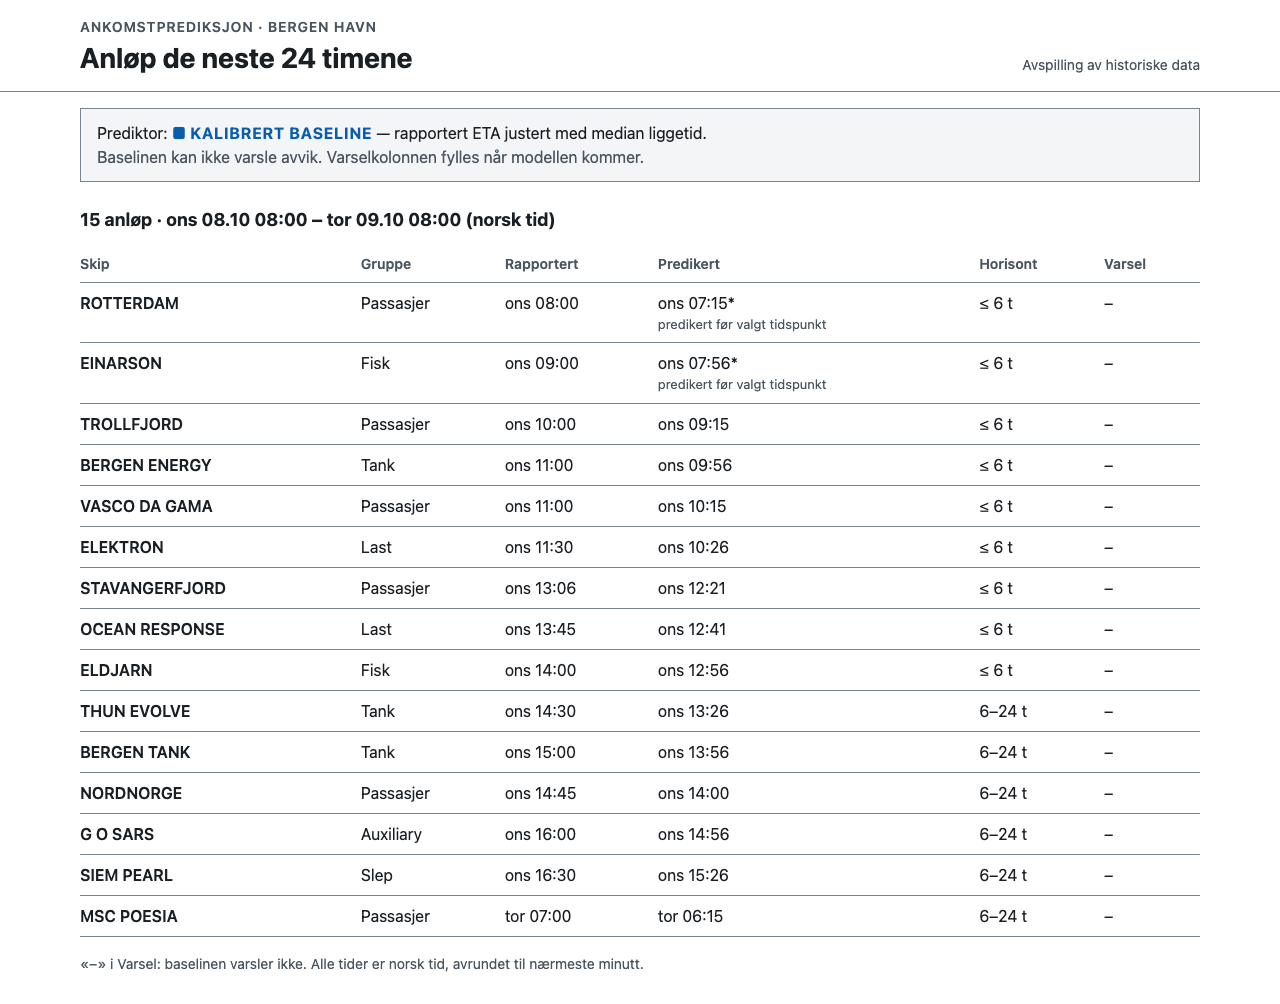
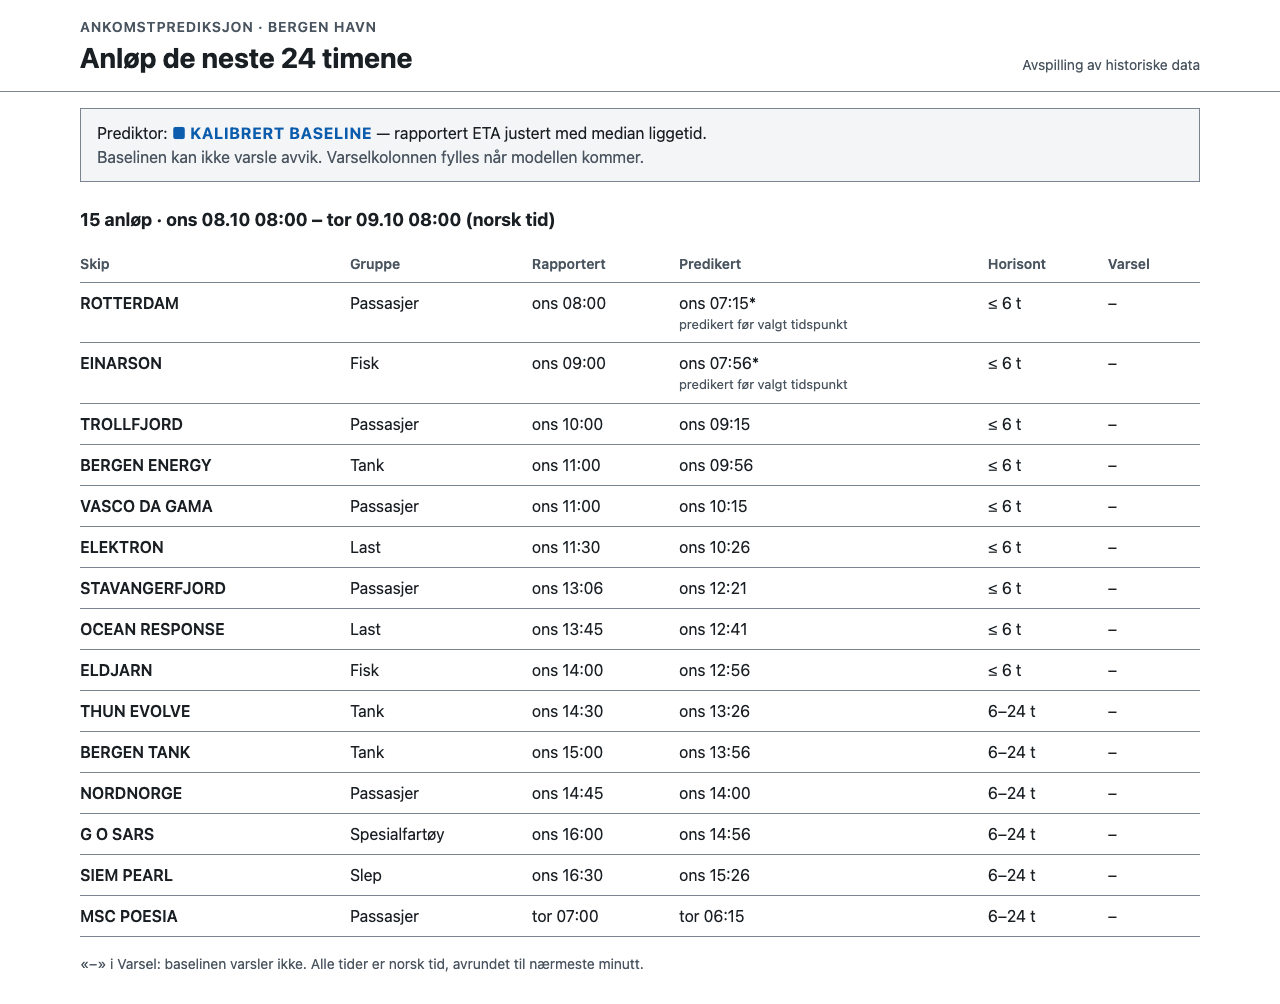
E1-S18, E1-S19: Hopp-lenken dekker ikke overskriften, og «Auxiliary» vises som «Spesialfartøy»
E1-S18 (funn i UU-sjekken 03.11): ved fokus går hopp-lenken inn i flyten
øverst og skyver overskriften ned i stedet for å ligge over
«ANKOMSTPREDIKSJON». Den er fortsatt første Tab-stopp. Storyen står som ◐
til UU2 i UX §6 er sjekket manuelt.

E1-S19: gruppen «Auxiliary» vises som «Spesialfartøy» (Felipe). Bare
visningen er endret (gruppe_visning i app/visning.py). ship_group i
utdraget, sjekksummene og test_dataregresjon.py er urørt. PRD-ordlista og
skissen i A2 bruker samme navn.

- Tester: test_gruppe_visning, test_ingen_rad_viser_auxiliary og
  test_hopplenke_dekker_ikke_overskriften_ved_fokus. Mutasjonssjekket.
- Skjermbildene er tatt på nytt. Ingen horisontal rulling på 360, 640,
  1280 eller 1920 px.
- Kort BMAD-flyt med én reviewer. Funnene og triagen står i specene.

diff --git a/app/static/style.css b/app/static/style.css
@@ -60,8 +60,12 @@ a {
   z-index: 10;
 }
 
+/* Ved fokus går lenka inn i flyten øverst og tar egen plass, så den skyver
+   overskriften ned i stedet for å dekke den (E1-S18, funn i UU-sjekken 03.11.2026). */
 .hopp:focus {
-  top: 0.5rem;
+  position: static;
+  display: inline-block;
+  margin: 0.5rem 1rem 0;
 }
 
 .topp {

diff --git a/tests/test_uu_struktur.py b/tests/test_uu_struktur.py
@@ -3,6 +3,9 @@
 Bare stdlib (``html.parser`` via ``conftest.parse_html``). Kontrast og tabulatorrekkefølge
 slik den oppleves, må sjekkes manuelt (UX §6).
 """
+import re
+from pathlib import Path
+
 import pytest
 
 INTERAKTIVE = {"a", "button", "input", "select", "textarea", "summary"}
@@ -123,3 +126,17 @@ def test_dekorative_tegn_er_skjult(dokument):
     assert merker
     for m in merker:
         assert m.attrs.get("aria-hidden") == "true"
+
+
+def test_hopplenke_dekker_ikke_overskriften_ved_fokus():
+    """E1-S18: vakt på den valgte løsningen, ikke en test av opplevelsen. Ved fokus går hopp-lenka inn
+    i flyten (position: static) og skyver overskriften ned, i stedet for å ligge absolutt over
+    «ANKOMSTPREDIKSJON». At den fortsatt er første Tab-stopp, dekker test_hopplenke_er_forst_og_virker.
+    Selve opplevelsen sjekkes manuelt (UU2 i UX §6)."""
+    css = (Path(__file__).resolve().parent.parent / "app" / "static" / "style.css").read_text(encoding="utf-8")
+    blokk = re.search(r"\.hopp:focus\s*\{([^}]*)\}", css)
+    assert blokk, ".hopp:focus mangler"
+    assert re.search(r"position:\s*static", blokk.group(1))
+    # Uten fokus er lenka fortsatt skjult utenfor skjermen.
+    hvile = re.search(r"\.hopp\s*\{([^}]*)\}", css).group(1)
+    assert re.search(r"position:\s*absolute", hvile) and re.search(r"top:\s*-", hvile)

diff --git a/tests/test_visning.py b/tests/test_visning.py
@@ -4,6 +4,7 @@ import datetime as dt
 import pytest
 
 from app.visning import (
+    gruppe_visning,
     horisont_etikett,
     til_oslo_minutt,
     ukedag_dato_klokke,
@@ -74,3 +75,21 @@ def test_horisont_etiketter():
     assert horisont_etikett(24) == "6–24 t"
     with pytest.raises(ValueError):
         horisont_etikett(12)
+
+
+def test_gruppe_visning():
+    """E1-S19: «Auxiliary» vises som «Spesialfartøy». Andre grupper vises som i kilden."""
+    assert gruppe_visning("Auxiliary") == "Spesialfartøy"
+    for g in ("Last", "Passasjer", "Tank", "Slep", "Fisk", "Ukjent"):
+        assert gruppe_visning(g) == g
+
+
+def test_ingen_rad_viser_auxiliary(client):
+    """E1-S19: standardvinduet har G O SARS (ship_group Auxiliary). Raden viser det norske navnet.
+    Standardvinduet er nok: alle rader, også kortvisningen under 640 px, bygges av _rader i app/__init__.py.
+    Mutasjonssjekket: testen feiler når gruppe_visning ikke brukes i radene."""
+    html = client.get("/").get_data(as_text=True)
+    assert "Auxiliary" not in html
+    rad = html[html.index("G O SARS"):]
+    rad = rad[:rad.index("</tr>")]
+    assert ">Spesialfartøy</td>" in rad

diff --git a/app/__init__.py b/app/__init__.py
@@ -5,7 +5,7 @@ from flask import Flask, current_app, render_template
 
 from app.data import anlop_i_vindu
 from app.prediksjon import lag_input, velg_prediktor
-from app.visning import OSLO, horisont_etikett, ukedag_dato_klokke, ukedag_klokke
+from app.visning import OSLO, gruppe_visning, horisont_etikett, ukedag_dato_klokke, ukedag_klokke
 
 # Standard «nå» (UX §2): ons 08.10.2025 08:00 norsk tid.
 STANDARD_NAA = dt.datetime(2025, 10, 8, 8, 0, tzinfo=OSLO)
@@ -33,7 +33,7 @@ def _rader(naa):
     rader = [
         {
             "skip": inp.shipname,
-            "gruppe": inp.ship_group,
+            "gruppe": gruppe_visning(inp.ship_group),
             "rapportert": ukedag_klokke(inp.eta_reported),
             "predikert": ukedag_klokke(p.predikert_ankomst),
             "for_naa": p.predikert_ankomst < naa,

diff --git a/app/visning.py b/app/visning.py
@@ -15,6 +15,15 @@ UKEDAGER = ("man", "tir", "ons", "tor", "fre", "lør", "søn")
 
 HORISONT_ETIKETT = {6: "≤ 6 t", 24: "6–24 t"}
 
+# Norske visningsnavn for skipsgrupper der kilden bruker et engelsk navn (E1-S19, Felipe 05.11.2026).
+# Bare visningen: ``ship_group`` i utdraget og gruppering i Passasjer/Øvrige er uendret.
+GRUPPE_VISNINGSNAVN = {"Auxiliary": "Spesialfartøy"}
+
+
+def gruppe_visning(ship_group: str) -> str:
+    """Visningsnavnet for en skipsgruppe. Ukjente grupper vises som i kilden."""
+    return GRUPPE_VISNINGSNAVN.get(ship_group, ship_group)
+
 
 def til_oslo_minutt(t: dt.datetime) -> dt.datetime:
     """Tz-aware tid til Europe/Oslo, avrundet til nærmeste minutt (:30 sekunder runder opp)."""

diff --git a/_bmad-output/implementation-artifacts/spec-e1-s19-norsk-navn-auxiliary.md b/_bmad-output/implementation-artifacts/spec-e1-s19-norsk-navn-auxiliary.md
@@ -1,0 +1,38 @@
+---
+title: 'E1-S19 — Norsk visningsnavn for gruppen «Auxiliary»'
+type: 'feature'
+created: '2026-11-05'
+status: 'done'
+route: 'oneshot'
+review_loop_iteration: 0
+context: []
+---
+
+<frozen-after-approval reason="human-owned intent — do not modify unless human renegotiates">
+
+## Intent
+
+**Problem:** Finding from the UU check on 2026-11-03 (E1-S16), not a UU requirement: the dashboard shows the group name «Auxiliary» (for example G O SARS), an English word among Norwegian group names. It applies to 524 voyages in `data/utdrag/anlop.csv`.
+
+**Approach:** The dashboard shows «Spesialfartøy» instead (Felipe chose the name on 2026-11-05). Only the display changes: `ship_group` in the extract, the checksums and `tests/test_dataregresjon.py` stay untouched, and the Passasjer/Øvrige grouping is unaffected. The PRD glossary and the UX screen A2 sketch use the same name. A test shows that no row displays «Auxiliary». Short BMAD flow (Felipe, 2026-11-05). Nothing in `pipeline/`, `data/` or E2 is touched.
+
+</frozen-after-approval>
+
+## Implementation Notes
+
+- `app/visning.py`: `GRUPPE_VISNINGSNAVN = {"Auxiliary": "Spesialfartøy"}` and `gruppe_visning()`. Unknown groups are shown as in the source.
+- `app/__init__.py`: `_rader` uses `gruppe_visning(inp.ship_group)`. `PrediksjonsInput.ship_group`, `Anlop.gruppe` (Passasjer/Øvrige) and the data are unchanged.
+- `docs/prd.md` glossary and the `docs/ux/dashbord.md` A2 sketch use «Spesialfartøy». The A2 Gruppe column is 3 characters wider.
+- Tests: `test_gruppe_visning` and `test_ingen_rad_viser_auxiliary` (mutation-checked: dropping `gruppe_visning` in `_rader` fails it). `tests/test_dataregresjon.py`, `data/` and `pipeline/` are untouched.
+
+## Review Triage Log
+
+One reviewer (Blind Hunter, short BMAD flow) reviewed E1-S18 and E1-S19 together on 2026-11-05.
+- Screenshots in `docs/ux/skjermbilder/` still showed «Auxiliary» — medium, **patch**: reran `scripts/ta_skjermbilder.py`. The overflow measurement passes at 360, 640, 1280 and 1920 px, with the longer name and the skip link in the flow.
+- UX doc and PRD changed without a changelog line, and the PRD's description of the group had no source — low, **patch**: changelog lines added. The description now cites the most common vessels in the group.
+- UU2 row in UX §6 did not say a fix exists — low, **patch**: added a note that the fix waits for a manual UU2 check.
+- Spec files were still `in-progress` with empty notes — low, **patch**: this finalization.
+- The E1-S18 test checks CSS text, not behaviour, and its imports were local — low, **patch**: the docstring now says it guards the chosen solution. Imports moved to module level, and the regex tolerates whitespace. Tab order is covered by `test_hopplenke_er_forst_og_virker`.
+- The «no row shows Auxiliary» test covers only the default window — low, **patch** (docstring): every row, including the mobile cards, is built by `_rader`, so the default window is enough.
+- `:focus` instead of `:focus-visible`; `z-index`/`left` unused when static — rejected (low). The link is hidden off-screen until focused, so a mouse click on it is not a realistic path. The leftovers do no harm.
+- The A2 sketch has a ragged right edge — rejected (low): it was there before this change (byte widths differ because of multi-byte characters), and the sketch has no frame.

diff --git a/_bmad-output/implementation-artifacts/spec-e1-s18-hopp-lenke-dekker-overskrift.md b/_bmad-output/implementation-artifacts/spec-e1-s18-hopp-lenke-dekker-overskrift.md
@@ -1,0 +1,37 @@
+---
+title: 'E1-S18 — Hopp-lenken dekker overskriften ved fokus'
+type: 'bugfix'
+created: '2026-11-05'
+status: 'in-review'
+route: 'oneshot'
+review_loop_iteration: 0
+context: []
+---
+
+<frozen-after-approval reason="human-owned intent — do not modify unless human renegotiates">
+
+## Intent
+
+**Problem:** Finding from the UU check on 2026-11-03 (E1-S16): when the skip link («Hopp til innhold») has focus, it is drawn on top of «ANKOMSTPREDIKSJON» and the first letter of «Anløp», because `.hopp:focus` only moves the absolutely positioned link to `top: 0.5rem`.
+
+**Approach:** On focus, the skip link joins the normal flow at the top of the page (static position, its own space), so the header moves down instead of being covered. It stays the first Tab stop, it is hidden until focused, and its text, target and colours are unchanged. Felipe asked for the short BMAD flow (2026-11-05); the test is manual UU2 in UX §6, and `tests/test_uu_struktur.py` stays green.
+
+</frozen-after-approval>
+
+## Implementation Notes
+
+- `app/static/style.css`: `.hopp:focus` is now `position: static; display: inline-block; margin: 0.5rem 1rem 0`. The link takes its own space at the top on focus and pushes the header down. It is unchanged off focus (absolute, `top: -10rem`).
+- `tests/test_uu_struktur.py`: `test_hopplenke_dekker_ikke_overskriften_ved_fokus` guards the chosen CSS. Mutation-checked: putting `top: 0.5rem` back instead of `position: static` fails it.
+- Status stays `in-review` and epics shows ◐ until a human has run the manual UU2 check in UX §6. That check is the story's own test. I could not see the focused state myself: the screenshot script captures the page without focus.
+
+## Review Triage Log
+
+One reviewer (Blind Hunter, short BMAD flow) reviewed E1-S18 and E1-S19 together on 2026-11-05.
+- Screenshots in `docs/ux/skjermbilder/` still showed «Auxiliary» — medium, **patch**: reran `scripts/ta_skjermbilder.py`. The overflow measurement passes at 360, 640, 1280 and 1920 px, with the longer name and the skip link in the flow.
+- UX doc and PRD changed without a changelog line, and the PRD's description of the group had no source — low, **patch**: changelog lines added. The description now cites the most common vessels in the group.
+- UU2 row in UX §6 did not say a fix exists — low, **patch**: added a note that the fix waits for a manual UU2 check.
+- Spec files were still `in-progress` with empty notes — low, **patch**: this finalization.
+- The E1-S18 test checks CSS text, not behaviour, and its imports were local — low, **patch**: the docstring now says it guards the chosen solution. Imports moved to module level, and the regex tolerates whitespace. Tab order is covered by `test_hopplenke_er_forst_og_virker`.
+- The «no row shows Auxiliary» test covers only the default window — low, **patch** (docstring): every row, including the mobile cards, is built by `_rader`, so the default window is enough.
+- `:focus` instead of `:focus-visible`; `z-index`/`left` unused when static — rejected (low). The link is hidden off-screen until focused, so a mouse click on it is not a realistic path. The leftovers do no harm.
+- The A2 sketch has a ragged right edge — rejected (low): it was there before this change (byte widths differ because of multi-byte characters), and the sketch has no frame.

diff --git a/docs/epics.md b/docs/epics.md
@@ -211,18 +211,19 @@ UU1–UU7 er ikke KAN. Minimumskravene står som akseptansekriterier i E1-S06 (d
 
 **Test:** manuell. Filene finnes og avvikene er beskrevet.
 
-### E1-S18 — Hopp-lenken dekker overskriften ved fokus ☐ · KAN
+### E1-S18 — Hopp-lenken dekker overskriften ved fokus ◐ · KAN
 **Krav:** UU2 · **Avhenger av:** E1-S06
 - Funn fra UU-sjekken 03.11.2026 (E1-S16): når hopp-lenken har fokus, ligger den over «ANKOMSTPREDIKSJON» og første bokstav i «Anløp».
 - Hopp-lenken er fortsatt første Tab-stopp og synlig ved fokus, men dekker ikke overskriften eller annen tekst.
 
 **Test:** manuell, med punkt UU2 i UX §6. `tests/test_uu_struktur.py` er fortsatt grønn.
 
-### E1-S19 — Norsk visningsnavn for gruppen «Auxiliary» ☐ · KAN
+### E1-S19 — Norsk visningsnavn for gruppen «Auxiliary» ✅ · KAN
 **Krav:** UX §2 · **Avhenger av:** E1-S06
 - Funn fra UU-sjekken 03.11.2026 (E1-S16), ikke et UU-krav: gruppenavnet «Auxiliary» (for eksempel G O SARS) er engelsk midt i norske gruppenavn. Det gjelder 524 anløp i `data/utdrag/anlop.csv`.
 - Dashbordet viser et norsk navn. Hvilket navn, avgjøres av gruppa når storyen startes. Bare visningen endres: `ship_group` i utdraget beholdes slik kilden har det, så sjekksummer og dataregresjonen står urørt.
 - PRD-ordlista og skissen i UX skjerm A2 bruker samme navn.
+- **Valgt navn (Felipe, 05.11.2026):** «Spesialfartøy».
 
 **Test:** test som viser at ingen rad viser «Auxiliary». `tests/test_dataregresjon.py` er uendret og grønn.
 
@@ -428,3 +429,4 @@ UU1–UU7 er ikke KAN. Minimumskravene står som akseptansekriterier i E1-S06 (d
 - **2026-10-27** — E1-S05: naiv ETA for Øvrige er 12,8 % (127/996), ikke 12,9 %. Pipelinen avrundet avviket til 0,1 min før ±30-sammenligningen, så seilas 3542899 (+30 min 1 s) ble telt som treff. `NaivPrediktor` er lagt til som referanseprediktor i kontrakttesten.
 - **2026-10-27** — E1-S06: hovedskjermen viser standardvinduet (15 anløp) med UU-minimum og kort under 640 px. Testene er `test_ruter.py`, `test_visning.py`, `test_uu_struktur.py` og `test_kontrast.py`. Skjermbilder ligger i `docs/ux/skjermbilder/` og lages med `scripts/ta_skjermbilder.py` utenfor `pytest`. Avvikene fra skissene står i UX-endringsloggen.
 - **2026-11-03** — E1-S16 er ferdig. Klone-testen tok ca. 4 min (Felipe), og UU-sjekklista i UX §6 er fylt ut (Thomas). E1-S18 (hopp-lenken dekker overskriften) og E1-S19 (norsk navn for «Auxiliary») er lagt til som KAN etter funn i UU-sjekken.
+- **2026-11-05** — E1-S19 er ferdig: «Auxiliary» vises som «Spesialfartøy» (Felipe). Bare visningen er endret, og dataregresjonen står urørt. E1-S18: hopp-lenken går inn i flyten ved fokus. Den står som ◐ til punkt UU2 i UX §6 er sjekket manuelt.

diff --git a/docs/prd.md b/docs/prd.md
@@ -44,7 +44,7 @@ Hvert begrep har ett navn. Navnene brukes likt i PRD, UX, arkitektur, stories og
 | **Anløp** | Én seilas til Bergen Havn, altså én rad i datautdraget (`voyageid`) |
 | **Rapportert ETA** | `eta_reported`: ankomsttiden skipet selv har meldt. Én verdi per anløp. |
 | **Faktisk ankomst** | `arrival_in_area`: første AIS-posisjon innenfor ankomstsonen, ~15 km fra kai (beslutning 03). Ikke ankomst ved kai. |
-| **Passasjer / Øvrige** | Skipsgruppe. *Passasjer* er `ship_group = Passasjer` og brukes som proxy for rutegående trafikk, selv om gruppen også har cruiseskip. *Øvrige* er alle andre grupper (Last, Tank, Slep, Auxiliary, Fisk). Hovedtallet gjelder Øvrige. |
+| **Passasjer / Øvrige** | Skipsgruppe. *Passasjer* er `ship_group = Passasjer` og brukes som proxy for rutegående trafikk, selv om gruppen også har cruiseskip. *Øvrige* er alle andre grupper (Last, Tank, Slep, Spesialfartøy, Fisk). *Spesialfartøy* er visningsnavnet for `ship_group = Auxiliary` (ut fra de vanligste fartøyene i gruppa, f.eks. G O SARS, Johan Hjort, Siem Symphony og Island Contender: forsknings-, offshore- og subseafartøy). Kilden og utdraget beholder `Auxiliary`. Hovedtallet gjelder Øvrige. |
 | **Kalibrert baseline** | `rapportert ETA − offset[gruppe]`, der offset er median tid fra ankomstsonen til kai i treningsdata: 44,8 min for Passasjer og 64,2 min for Øvrige (beslutning 04) |
 | **Avvik** | `faktisk ankomst − kalibrert baseline`, i minutter. Positivt betyr senere enn forventet. Regnes *alltid* mot kalibrert baseline, uansett hvilken prediktor som vises. |
 | **Forsinket** | Fasitetiketten `avvik > 120 min` (signert, beslutning 06). Den er uavhengig av prediktoren. |
@@ -193,3 +193,4 @@ Som i briefens Scope/OUT: live-data, flere havner, API for andre, innlogging og 
 - **2026-10-22** — E0-S10, beslutning 09: 24 t-horisonten beholdes. FR9a har fått tilbakeblikk på 24 t og krav om at posisjoner filtreres på tidsstemplet i svaret, siden API-et forskyver og kutter vinduer. Nytt åpent spørsmål om ny henting av `empty`-seilasene.
 - **2026-10-22** — E0-S13, beslutning 07 korrigert: gruppespørsmålet om ny henting er besvart med nei, og ny henting er ført under §7. Teksten for `empty` i FR4 er endret til «ingen AIS-data hentet», siden dataene finnes i Kystdatahuset.
 - **2026-10-27** — E1-S05: naiv ETA for Øvrige er rettet fra 12,9 % til 12,8 % (127/996) i FR8. Pipelinen avrundet avviket før ±30-sammenligningen. Uavrundet regnes alle tall, som besluttet i E0-S18.
+- **2026-11-05** — E1-S19: ordlista bruker visningsnavnet «Spesialfartøy» for `ship_group = Auxiliary` (Felipe). Kilden og utdraget er uendret.
